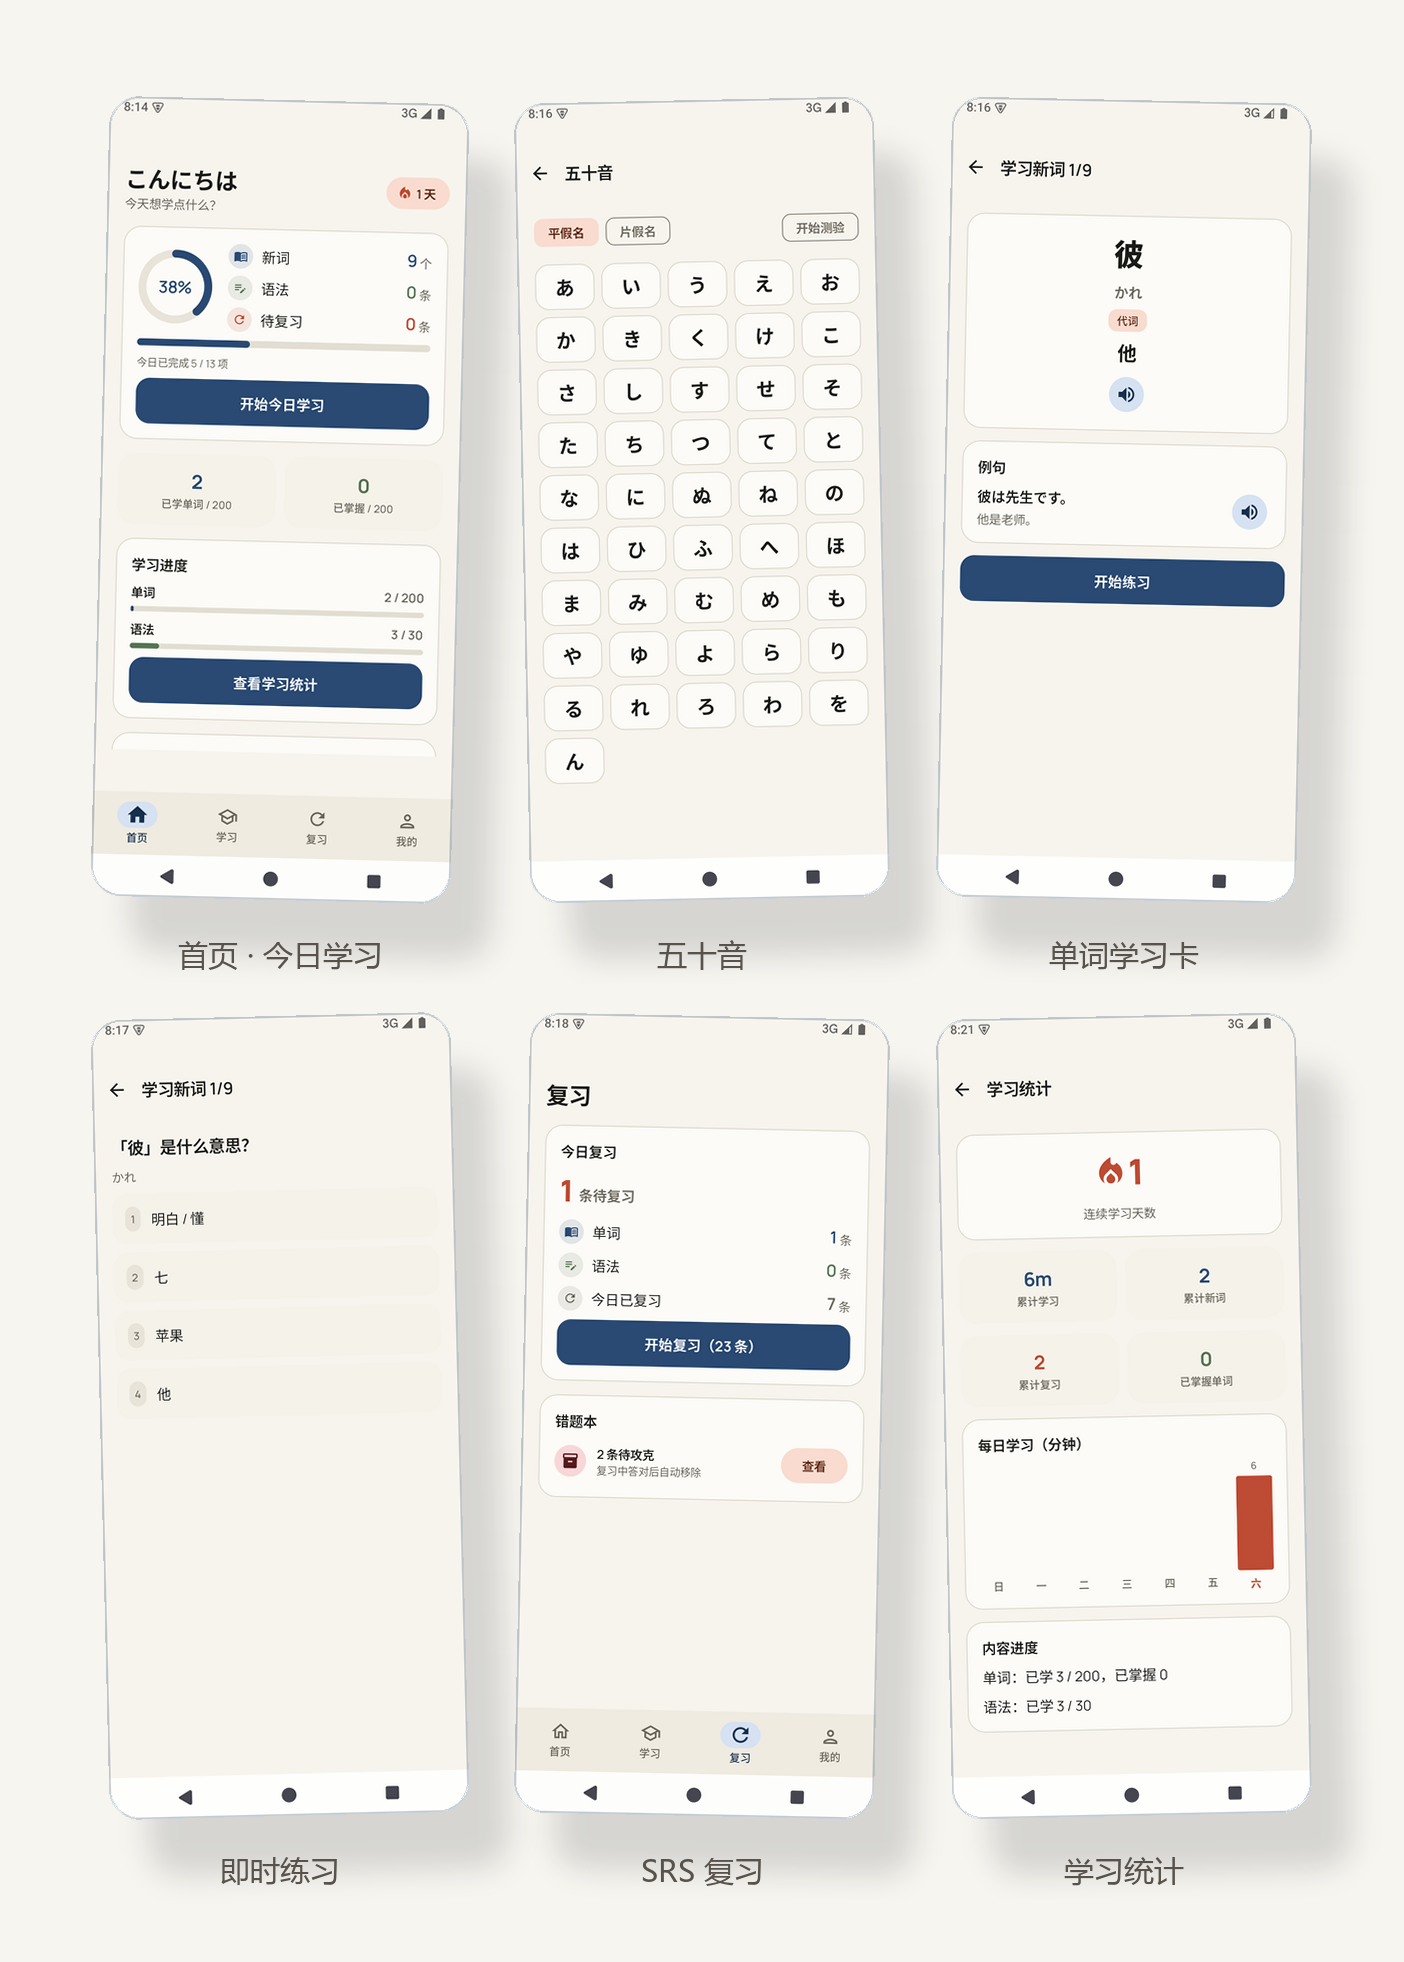
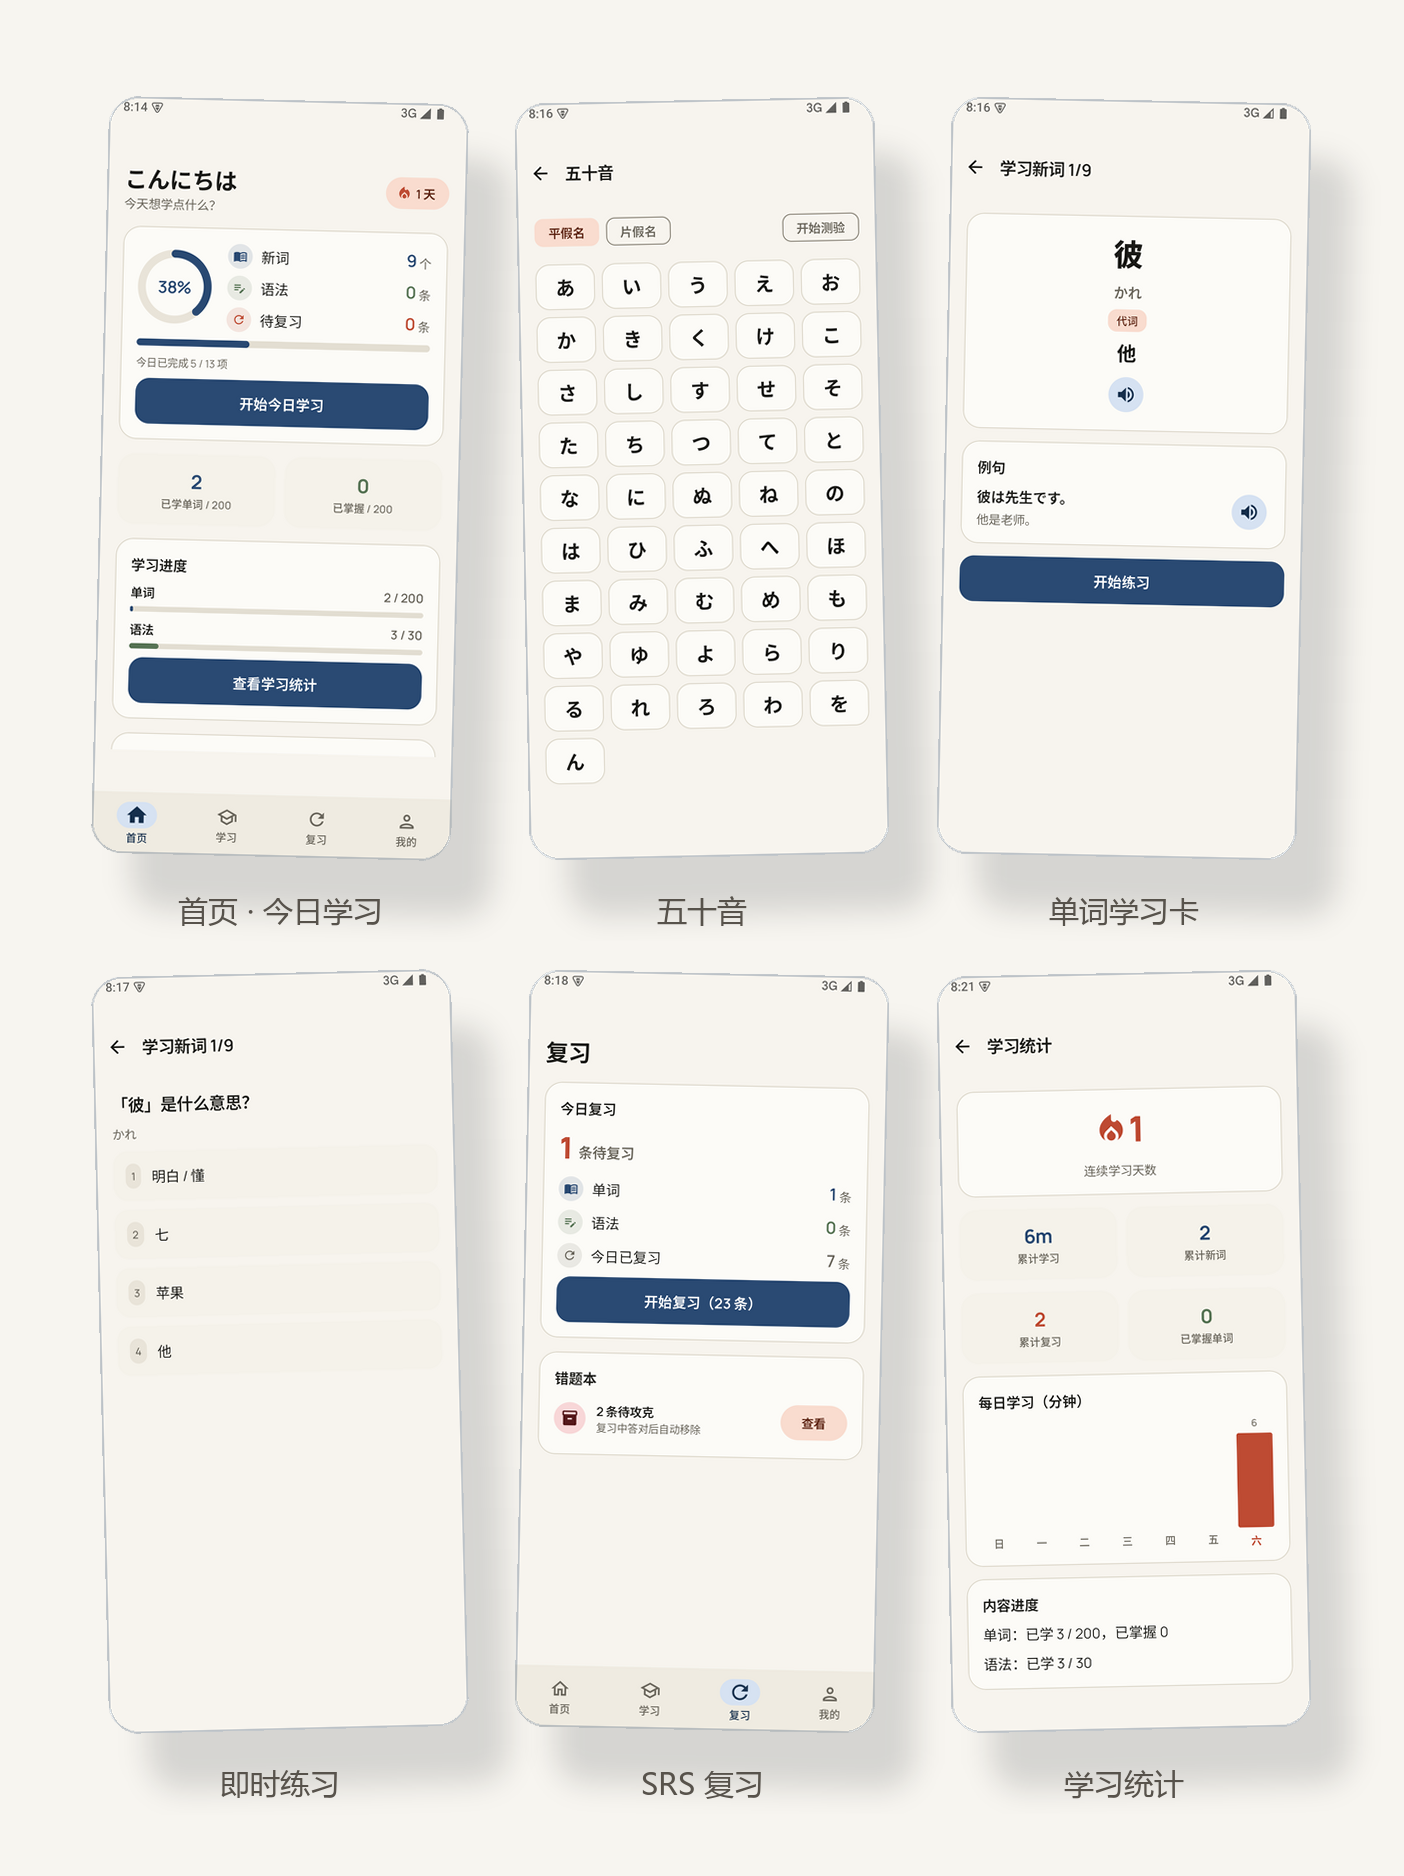
docs: 展示墙截图裁掉底部系统导航栏

diff --git a/assets/readme/build_showcase.py b/assets/readme/build_showcase.py
@@ -19,7 +19,8 @@ PICKS = [
     ("10_stats.png", "学习统计"),
 ]
 
-PHONE_W, PHONE_H = 360, 800
+PHONE_W, PHONE_H = 360, 757  # 源图 1080x2400，先裁掉底部 130px 系统导航栏再等比缩放
+CROP_BOTTOM = 130
 COLS, ROWS = 3, 2
 MARGIN_X, MARGIN_Y = 80, 80
 GAP_X, GAP_Y = 62, 96
@@ -33,7 +34,10 @@ def rounded_mask(size, radius):
     return m
 
 def phone_tile(path, rotation):
-    img = Image.open(path).convert("RGB").resize((PHONE_W, PHONE_H), Image.LANCZOS)
+    img = Image.open(path).convert("RGB")
+    w, h = img.size
+    img = img.crop((0, 0, w, h - CROP_BOTTOM))  # 去掉系统导航栏
+    img = img.resize((PHONE_W, PHONE_H), Image.LANCZOS)
     # 圆角 + 1px 描边底板
     mask = rounded_mask(img.size, CORNER)
     tile = Image.new("RGBA", img.size, (0, 0, 0, 0))
